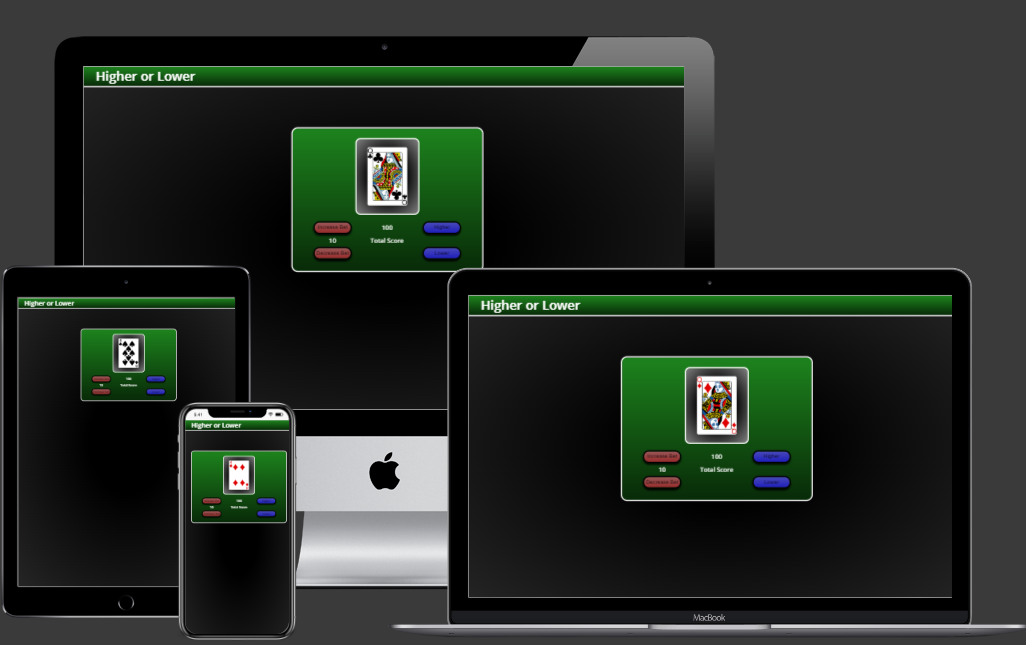
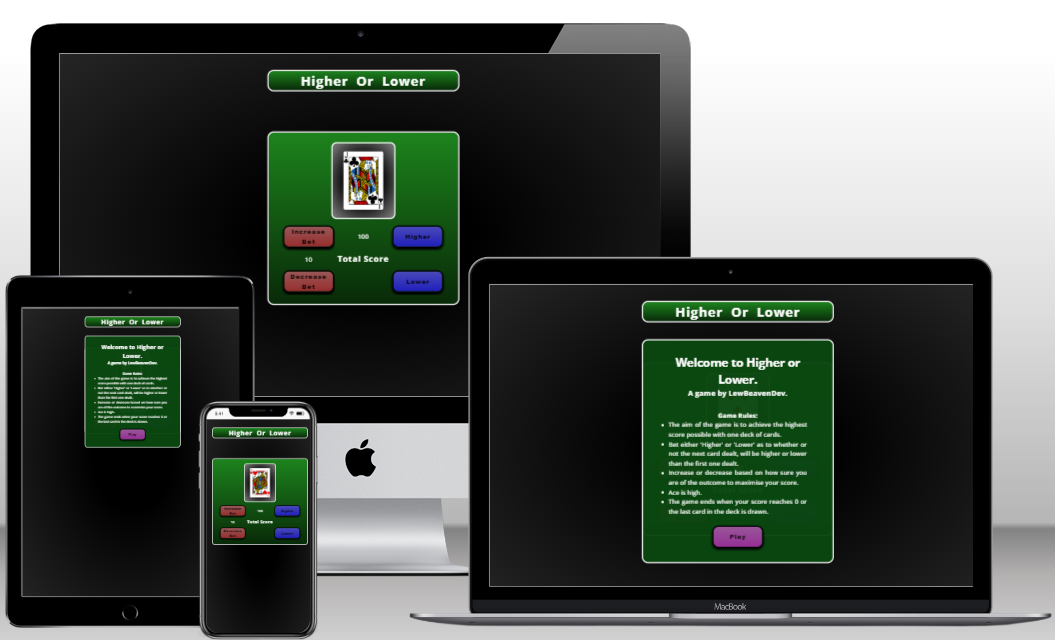
updated Readme.

diff --git a/README.md b/README.md
@@ -1,45 +1,137 @@
 # Higher or Lower Game
--- 
+
 ## Milestone Project 2 - Interactive Front-End Site
---
+
+![Mockup Image](assets\images\mockup.png)
+
 Higher or Lower is a card game where you guess whether the next card is higher or loer than the one you are shown. The player can bet points to try and get the highest score possible.
 
 ## Live Project
---
+
 [Live Site Link](https://lewbeavendev.github.io/Higher_or_Lower/)
 
-!()
+## Repository
+
+![View The Repository Here]()
 
 ## Site Owner Goals
---
+
 - To provide the user with a fun mini game.
 - To allow the user to keep track of a points total.
 - To allow the user to bet different amounts of points to potentially win more points.
 - To package the game within an aesthetically pleasing, modern looking page that is easy to use and fun to play.
---
-## User stories
+- To make the game fully in vanilla JavaScript to grow my foundation of knowledge. 
 
-- empty
-- ### First time user
-  - Have all the rules to understand how the game works
-  -
-- ### Retuning User
-  - Empty
-- ### Frequent User
-  - Empty
+## User goals
 
-## Design
+- An easily useable UI with intuitive design
+- All rules of game are clearly explained
+
+## Design Choices
+
+### Color Scheme
+
+![](assets\images\higher_or_lower_palette.png)
+
+- The color palette of the page is inspired by casino/online poker tables. Dark background with a bright green felt color table keeping the users eyes on what is important. Bright differently colored buttons to highlight to the user the difference and function. 
+
+- overall the color scheme is simple but pops and draws the users eyes to what is important. 
+
+### Typography
+
+- I have used the Open Sans font for the whole page as it is easily readable and keeps the pages looking clean and simple. 
+
+### Aesthetics 
+
+- The overall aesthetics reflect the table of a card game. The smooth edges and pastel buttons are easy on the eyes and clearly redable. 
+- The eyes naturally focus on the card in the center as it sits in its own seperate compartment. 
+
+## Wireframes 
+
+![](assets\images\higherOrLowerWireFrame.png)
+
+- My wireframe was made in Figma
+
+## Features
+
+### Landing/Welcome Page
+
+![](assets\images\landingPage.png)
+
+- The landing page instantly welcomes you to the page and explains the rules of the game and how it works.
+- Due to there only being one page on the website the site doesnt have a traditional nav bar, instead a header that functions as a button which resets the page for the user. 
+- The Play button has a tactile hover and active effect alongside a birght but soft color to clearly navigate the user to the game. 
+- The button has a tactile click sound upon press to give a pleasing sensory feel to it. 
+
+### Game Page Features
+
+![](assets\images\gamePage.png)
+
+- The play area has the main card area showing the user the card drawn. This is generated through various arrays and properly shuffled and the result is assigned the corresponding card .svg to show the user the card drawn. 
+- Underneath are the user interface buttons. Both sides are differently colored so the user subconsciously understands the two pairs of buttons are for different things. 
+- The increase and decrease bet buttons are placed above and below the bet size so the user intuitively knows what to expect upon pressing the buttons. 
+- The users total score is placed in the middle as that is the key score the user wants to keep track of. 
+- The higher/lower and increase/decrease buttons are placed with the higher on top and lower below to further make the interface feel intuitive. 
+
+### Lose Screen Features
+
+![](assets\images\lossScreen.png)
+
+- The game loss screen is clearly colored red to show to the user that they have lost.
+- Underneath the title it explains why the user lost in case they didnt understand.
+- At the bottom is a play game button which redirects the user to play again.
+
+### Win Screen Features
+
+![](assets\images\winScreen.png)
+
+- The game win screen is colored blue to reflect the game loss sceen. 
+- The game win screen shows the users score so they can keep track of how well they have done. 
+- At the bottom is a play game button which redirects the user to play again.
 
 
+### Future Features 
+
+#### Gameplay 
+
+- The first thing I would implement is a card counter to tell the user how many cards are left 
+- I would implement an openable discard pile which gives the user the ability to physically see all the discarded cards to inform themselves on the likelihood of the next card being higher or lower. 
+- I would implement the ability to hold the increase/decrease buttons to make betting larger and smaller amounts later into the game easier.
+- I would like the sound of chips landing to play when the user was correct and a negative sound to play when the user is wrong.
+- I would also like to implement a leaderboard or the ability for the user to log in and compete against other players. 
 
 
 ### Samples
-- Poker chip sound (https://pixabay.com/sound-effects/poker-chips1-87592/)
 
-- Game over sound (https://pixabay.com/sound-effects/game-over-arcade-6435/)
+- [Poker chip sound](https://pixabay.com/sound-effects/poker-chips1-87592/)
 
-- Button click sound (https://pixabay.com/sound-effects/ui-click-43196/)
+- [Game over sound](https://pixabay.com/sound-effects/game-over-arcade-6435/)
 
-## Resources 
+- [Button click sound](https://pixabay.com/sound-effects/ui-click-43196/)
+
+## Resources Used
+
 - [Mockup images](https://techsini.com/multi-mockup/index.php)
+  - This was used to capture the images showing responsiveness across platforms and devices. 
 - [Color palette](https://coolors.co/)
+  - This was used to combine and show all the colors used designing the page in an easy to see way.
+- [Github](https://github.com/)
+  - Github was used to host the repository.
+- [Visual Studio Code](https://code.visualstudio.com/)
+  - VSCode was used for all the code writing and version control within the project. This is linked to my Github. 
+
+## Languages Used
+
+- [HTML 5](https://en.wikipedia.org/wiki/HTML5)
+- [CSS3](https://en.wikipedia.org/wiki/CSS)
+- [JavaScript](https://en.wikipedia.org/wiki/JavaScript)
+
+## Frameworks and Libraries
+
+- No Javascript or CSS libraries or frameworks were used in this project as to further develop my understanding of the fundamentals. 
+- ![Google Fonts](https://fonts.google.com/)
+  - Google fonts was used to import one font 'Open sans'.
+- ![Figma](https://www.figma.com/)
+  - Figma was used for the wireframes. 
+- ![Firefox Developer Tools](https://firefox-source-docs.mozilla.org/devtools-user/)
+  - Firefox developer tools was used to debug and test responsiveness through development. The console was also used to debug the JavaScript through development. 
